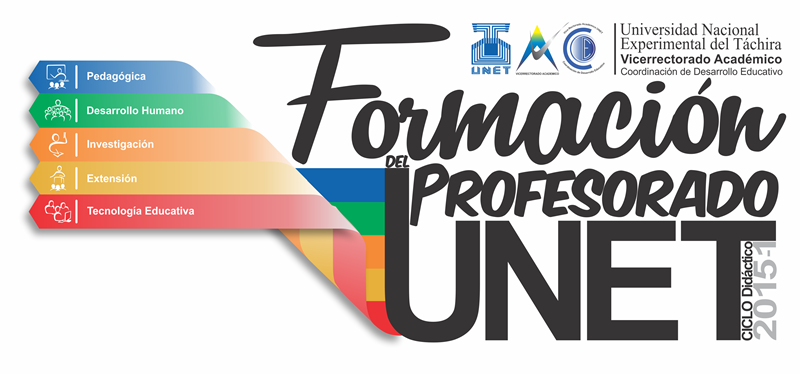
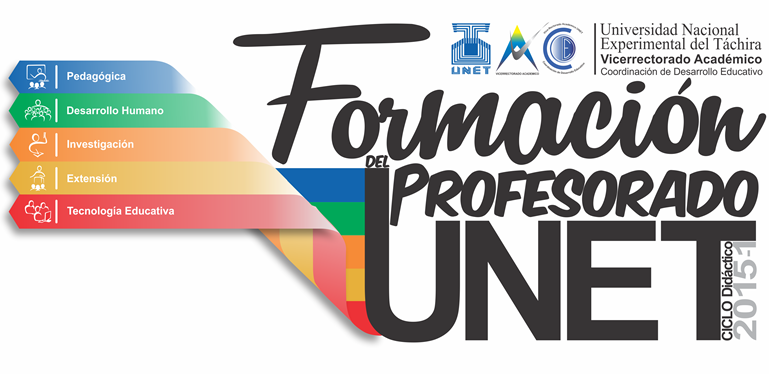
Home 100%

diff --git a/index.html b/index.html
@@ -13,37 +13,36 @@
 <body>
 	<div class="page-header">
 		<img class="logo-header" src="imgs/logo code.png" alt="" >
-		<img class="logo-header visible-lg-inline-block visible-md-inline-block visible-sm-inline-block hidden-xs " src="imgs/logo unet.png" alt="">
-		<img class="text-header visible-lg-inline-block visible-md-inline-block visible-sm-inline-block hidden-xs " src="imgs/header.png" alt="">
+		<img class="logo-header visible-lg-inline-block visible-md-inline-block visible-xs-inline-block" src="imgs/logo unet.png" alt="">
+		<img class="text-header visible-lg-inline-block visible-md-inline-block visible-xs-inline-block" src="imgs/header.png" alt="">
 		<button type="submit" class="visible-md-inline-block visible-lg-inline-block visible-sm-inline-block hidden-xs btn btn-success oferta-header">Oferta 2015-1</button>
 	</div>
-
-	<div >
-		<img class="col-xs-12 col-lg-8" src="imgs/log.png" alt="">
-	</div>
-	<div class="col-xs-10 col-xs-offset-1 col-lg-3 bg-gray">
-		<form class="text-center">
-			<img class="icon-user" src="imgs/flat-user.png" alt="" width="60">
-			<h3>Inicia sesión</h3>
-			<p class="txt-gray">con tu cuenta Intranet</p>
-			<div class="margin-upbottom">
-				<div class="form-group">
-					<input type="text" class="form-control text-center bg-dark-gray txt-black" id="user" placeholder="usuario">
+	
+	<div class="content">
+		<img class="col-xs-12 col-sm-8 col-lg-8 show-grid" src="imgs/log.png" alt="">
+		<div class="col-xs-offset-1 col-xs-10 col-sm-3 col-sm-offset-1 col-lg-3 col-lg-offset-1 bg-gray show-grid">
+			<form class="text-center">
+				<img class="icon-user" src="imgs/flat-user.png" alt="">
+				<h3>Inicia sesión</h3>
+				<p class="txt-gray">con tu cuenta Intranet</p>
+				<div class="margin-upbottom">
+					<div class="form-group">
+						<input type="text" class="form-control text-center bg-dark-gray txt-black" id="user" placeholder="usuario">
+					</div>
+					<div class="form-group">
+						<input type="password" class="form-control text-center bg-dark-gray txt-black" id="user" placeholder="contraseña">
+					</div>
 				</div>
-				<div class="form-group">
-					<input type="password" class="form-control text-center bg-dark-gray txt-black" id="user" placeholder="contraseña">
+				<button type="submit" class="col-xs-12 btn btn-danger btn-lg show-grid">Entrar</button>
+				<div class="col-xs-12 text-center show-grid">
+					<a href="#">Si no tienes cuenta en Intranet haz clic aquí</a>
 				</div>
-			</div>
-			<button type="submit" class="col-xs-12 btn btn-danger btn-lg show-grid">Entrar</button>
-			<div class="col-xs-12 text-center show-grid">
-				<a href="#">Si no tienes cuenta en Intranet haz clic aquí</a>
-			</div>
-		</form>
+			</form>
+		</div>
+		<button type="submit" class="col-xs-8 col-xs-offset-2 visible-xs hidden-lg btn btn-success show-grid">Oferta 2015-1</button>
 	</div>
 
-	<button type="submit" class="col-xs-8 col-xs-offset-2 visible-xs hidden-lg btn btn-success show-grid">Oferta 2015-1</button>
-
-	<div class="col-xs-12 page-footer">
+	<div class="page-footer col-xs-12">
 		<p class="col-xs-12 text-center">Copyright &copy; 2015 Universidad Nacional Experimental del Táchira</p>
 		<p class="col-xs-12 text-center">Vicerrectado Académico - Coordinacion de Desarrollo Educativo</p>
 		<p class="col-xs-12 text-center">Todos los Derechos Reservados</p>

diff --git a/css/styles.css b/css/styles.css
@@ -1,31 +1,41 @@
 /* Extra small devices (phones, less than 768px) */
-
 @media (max-width: 768px) {
 
 a,p{
 	font-size: 12px;
 }
-.logo-header{
+.content{
+	padding: 1em 0;
+}
+.icon-user{
 	width: 40px;
 }
-.text-header{
-	height: 47px;
+.logo-header{
+	width: 30px;
 }
-	
+.text-header{
+	height: 30px;
+}
+
 }
 
 /* Small devices (tablets, 768px and up) */
 @media (min-width: 768px) {
 
 a,p{
-	font-size: 14px;
+	font-size: 13px;
 }
-
+.content{
+	padding: 3em 2em;
+}
+.icon-user{
+	width: 50px;
+}
 .logo-header{
 	width: 40px;
 }
 .text-header{
-	height: 47px;
+	height: 37px;
 }
 	
 }
@@ -37,11 +47,20 @@ a,p{
 a,p{
 	font-size: 13px;
 }
+.content{
+	padding: 3em 2em;
+}
+.icon-user{
+	width: 60px;
+}
 .logo-header{
 	width: 45px;
 }
 .text-header{
 	height: 52px;
+}
+.margin-upbottom{
+	margin: 3em 0 2em 0;
 }
 
 }
@@ -52,11 +71,20 @@ a,p{
 a,p{
 	font-size: 13px;
 }
+.content{
+	padding: 3em 2em;
+}
+.icon-user{
+	width: 60px;
+}
 .logo-header{
 	width: 50px;
 }
 .text-header{
 	height: 57px;
+}
+.margin-upbottom{
+	margin: 3em 0 2em 0;
 }
 
 }
@@ -69,7 +97,6 @@ a{
 .bg-gray{
 	background-color: #EEE;
 	border-radius: 5px;
-	margin: 3em 2em 1em;
 }
 .bg-dark-gray{
 	background-color: #CCC;
@@ -78,18 +105,15 @@ a{
 	position: relative;
 	margin-top: -30px;
 }
-.margin-upbottom{
-	margin: 3em 0 2em 0;
-}
 .page-footer{
 	background-color: #10477E;
 	color: white;
 }
+.page-footer p{
+	margin: 0;
+}
 .txt-gray{
 	color: #B7AAB4;
-}
-.text-header{
-	height: 57px;
 }
 .oferta-header{
 	position: relative;
